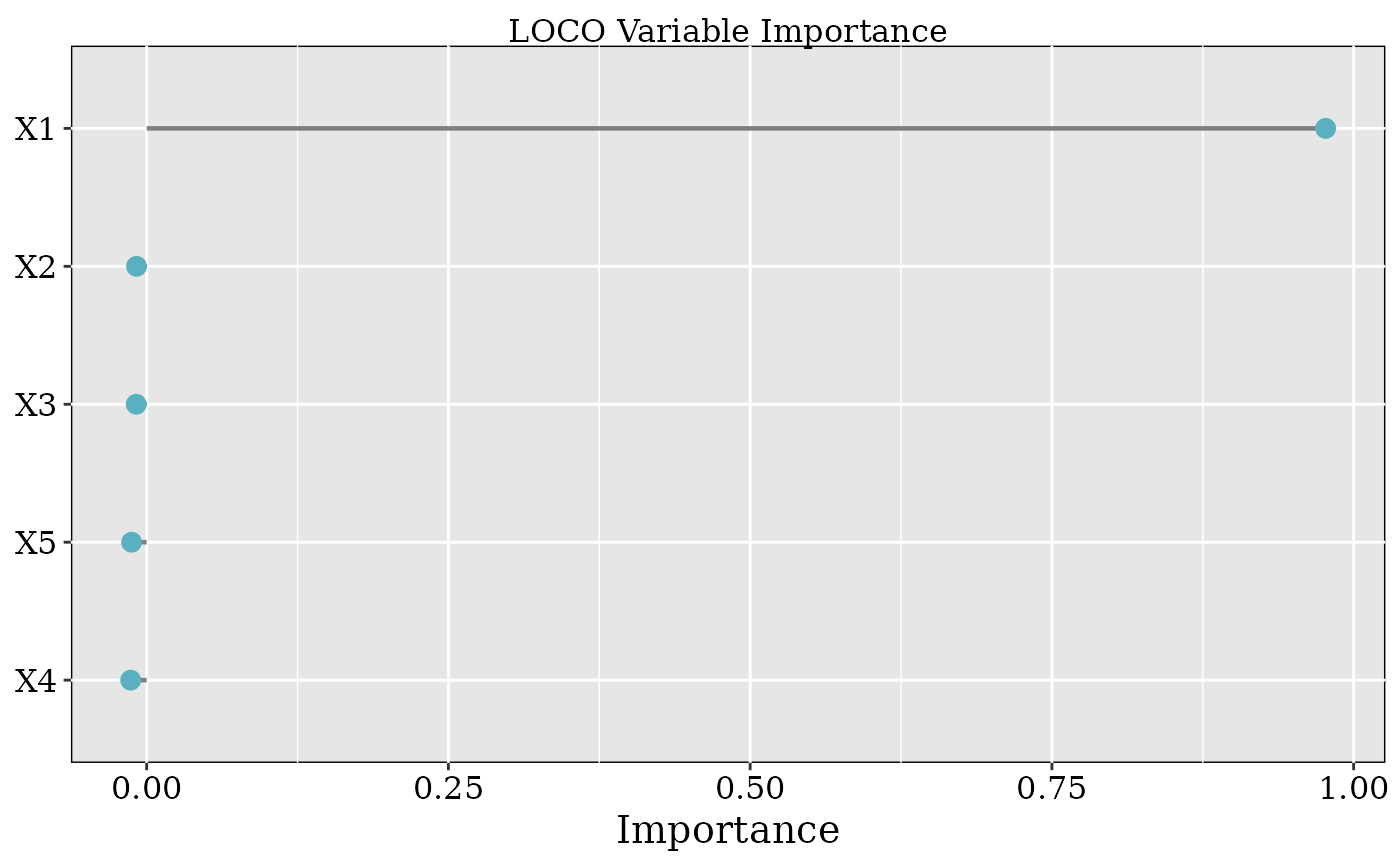
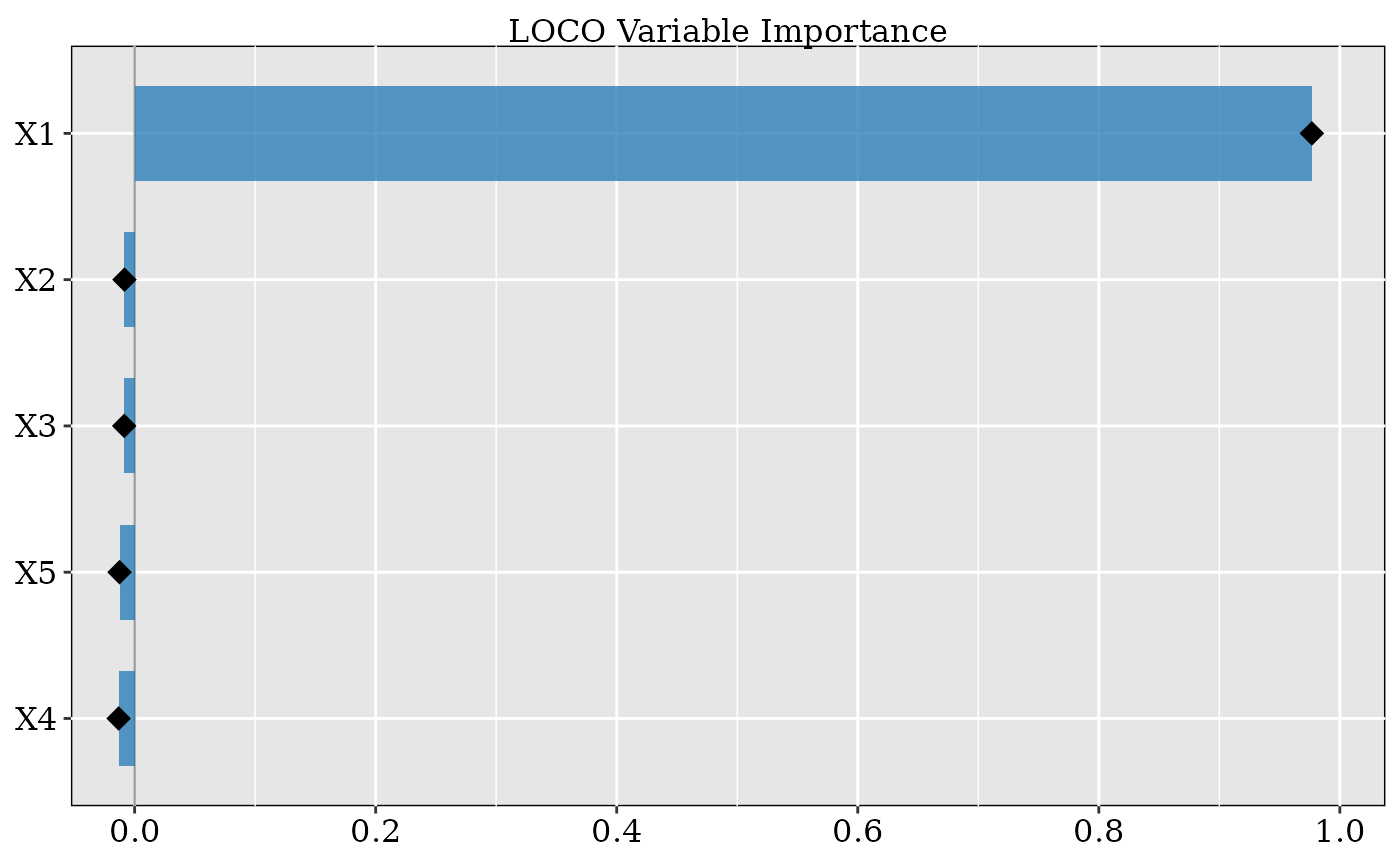
Deploying to gh-pages from @ CetiAlphaFive/UtopiaPlanitia@c2582bc635a76970580e2c9eb4269a3b8015ce54 🚀

diff --git a/reference/plot.cf_perm.html b/reference/plot.cf_perm.html
@@ -1,15 +1,7 @@
 <!DOCTYPE html>
-<!-- Generated by pkgdown: do not edit by hand --><html lang="en"><head><meta http-equiv="Content-Type" content="text/html; charset=UTF-8"><meta charset="utf-8"><meta http-equiv="X-UA-Compatible" content="IE=edge"><meta name="viewport" content="width=device-width, initial-scale=1, shrink-to-fit=no"><title>Plot PermuCATE Variable Importance — plot.cf_perm • UtopiaPlanitia</title><script src="../lightswitch.js"></script><script src="../deps/jquery-3.6.0/jquery-3.6.0.min.js"></script><meta name="viewport" content="width=device-width, initial-scale=1, shrink-to-fit=no"><link href="../deps/bootstrap-5.3.8/bootstrap.min.css" rel="stylesheet"><script src="../deps/bootstrap-5.3.8/bootstrap.bundle.min.js"></script><link href="../deps/font-awesome-6.5.2/css/all.min.css" rel="stylesheet"><link href="../deps/font-awesome-6.5.2/css/v4-shims.min.css" rel="stylesheet"><script src="../deps/headroom-0.11.0/headroom.min.js"></script><script src="../deps/headroom-0.11.0/jQuery.headroom.min.js"></script><script src="../deps/bootstrap-toc-1.0.1/bootstrap-toc.min.js"></script><script src="../deps/clipboard.js-2.0.11/clipboard.min.js"></script><script src="../deps/search-1.0.0/autocomplete.jquery.min.js"></script><script src="../deps/search-1.0.0/fuse.min.js"></script><script src="../deps/search-1.0.0/mark.min.js"></script><!-- pkgdown --><script src="../pkgdown.js"></script><link href="../extra.css" rel="stylesheet"><meta property="og:title" content="Plot PermuCATE Variable Importance — plot.cf_perm"><meta name="description" content="Draws a horizontal lollipop chart of PermuCATE importance scores. When
-confidence bounds are available (not normalized), a one-sided lower
-confidence bound is drawn as a whisker (the upper bound is unbounded by
-construction). Points are colored by significance at the object's
-conf.level (a covariate is significant when its lower confidence bound
-exceeds zero)."><meta property="og:description" content="Draws a horizontal lollipop chart of PermuCATE importance scores. When
-confidence bounds are available (not normalized), a one-sided lower
-confidence bound is drawn as a whisker (the upper bound is unbounded by
-construction). Points are colored by significance at the object's
-conf.level (a covariate is significant when its lower confidence bound
-exceeds zero)."></head><body>
+<!-- Generated by pkgdown: do not edit by hand --><html lang="en"><head><meta http-equiv="Content-Type" content="text/html; charset=UTF-8"><meta charset="utf-8"><meta http-equiv="X-UA-Compatible" content="IE=edge"><meta name="viewport" content="width=device-width, initial-scale=1, shrink-to-fit=no"><title>Plot PermuCATE Variable Importance — plot.cf_perm • UtopiaPlanitia</title><script src="../lightswitch.js"></script><script src="../deps/jquery-3.6.0/jquery-3.6.0.min.js"></script><meta name="viewport" content="width=device-width, initial-scale=1, shrink-to-fit=no"><link href="../deps/bootstrap-5.3.8/bootstrap.min.css" rel="stylesheet"><script src="../deps/bootstrap-5.3.8/bootstrap.bundle.min.js"></script><link href="../deps/font-awesome-6.5.2/css/all.min.css" rel="stylesheet"><link href="../deps/font-awesome-6.5.2/css/v4-shims.min.css" rel="stylesheet"><script src="../deps/headroom-0.11.0/headroom.min.js"></script><script src="../deps/headroom-0.11.0/jQuery.headroom.min.js"></script><script src="../deps/bootstrap-toc-1.0.1/bootstrap-toc.min.js"></script><script src="../deps/clipboard.js-2.0.11/clipboard.min.js"></script><script src="../deps/search-1.0.0/autocomplete.jquery.min.js"></script><script src="../deps/search-1.0.0/fuse.min.js"></script><script src="../deps/search-1.0.0/mark.min.js"></script><!-- pkgdown --><script src="../pkgdown.js"></script><link href="../extra.css" rel="stylesheet"><meta property="og:title" content="Plot PermuCATE Variable Importance — plot.cf_perm"><meta name="description" content="Draws a horizontal variable-importance bar chart of PermuCATE scores,
+sorted from most to least important (largest at the top)."><meta property="og:description" content="Draws a horizontal variable-importance bar chart of PermuCATE scores,
+sorted from most to least important (largest at the top)."></head><body>
     <a href="#main" class="visually-hidden-focusable">Skip to contents</a>
 
 
@@ -50,18 +42,14 @@ exceeds zero)."></head><body>
     </div>
 
     <div class="ref-description section level2">
-    <p>Draws a horizontal lollipop chart of PermuCATE importance scores. When
-confidence bounds are available (not normalized), a one-sided lower
-confidence bound is drawn as a whisker (the upper bound is unbounded by
-construction). Points are colored by significance at the object's
-<code>conf.level</code> (a covariate is significant when its lower confidence bound
-exceeds zero).</p>
+    <p>Draws a horizontal variable-importance bar chart of PermuCATE scores,
+sorted from most to least important (largest at the top).</p>
     </div>
 
     <div class="section level2">
     <h2 id="ref-usage">Usage<a class="anchor" aria-label="anchor" href="#ref-usage"></a></h2>
     <div class="sourceCode"><pre class="sourceCode r"><code><span><span class="co"># S3 method for class 'cf_perm'</span></span>
-<span><span class="fu"><a href="https://rdrr.io/r/graphics/plot.default.html" class="external-link">plot</a></span><span class="op">(</span><span class="va">x</span>, <span class="va">...</span><span class="op">)</span></span></code></pre></div>
+<span><span class="fu"><a href="https://rdrr.io/r/graphics/plot.default.html" class="external-link">plot</a></span><span class="op">(</span><span class="va">x</span>, fill.sig <span class="op">=</span> <span class="st">"darkorange"</span>, <span class="va">...</span><span class="op">)</span></span></code></pre></div>
     </div>
 
     <div class="section level2">
@@ -72,6 +60,11 @@ exceeds zero).</p>
 <dd><p>An object of class <code>"cf_perm"</code> returned by <code><a href="cf_perm.html">cf_perm()</a></code>.</p></dd>
 
 
+<dt id="arg-fill-sig">fill.sig<a class="anchor" aria-label="anchor" href="#arg-fill-sig"></a></dt>
+<dd><p>Bar fill for significant covariates (default
+<code>"darkorange"</code>). Non-significant covariates use <code>"gray70"</code>.</p></dd>
+
+
 <dt id="arg--">...<a class="anchor" aria-label="anchor" href="#arg--"></a></dt>
 <dd><p>Additional arguments (currently unused).</p></dd>
 
@@ -79,6 +72,27 @@ exceeds zero).</p>
     <div class="section level2">
     <h2 id="value">Value<a class="anchor" aria-label="anchor" href="#value"></a></h2>
     <p>A <code>ggplot</code> object.</p>
+    </div>
+    <div class="section level2">
+    <h2 id="details">Details<a class="anchor" aria-label="anchor" href="#details"></a></h2>
+    <p>Shares the package house styling with <code><a href="plot_pdp.html">plot_pdp()</a></code> (serif type, gray panel,
+centered title, legend at the bottom). Colored horizontal bars
+(<code>alpha = 0.75</code>) end in a black tip point over a gray zero reference line,
+with the x-axis hugged to the data. Bars are filled by significance at the
+object's
+<code>conf.level</code> (a covariate is significant when its lower confidence bound
+exceeds zero): significant bars use <code>fill.sig</code>, others <code>"gray70"</code>. When
+confidence bounds are available (not normalized), a one-sided lower
+confidence bound is drawn as a horizontal whisker from <code>CI.lower</code> to the
+importance tip (the upper bound is <code>+Inf</code> by construction, so there is no
+upper whisker). For normalized objects the bounds are <code>NA</code>, so no whisker is
+drawn, all bars take the non-significant fill, and the title gains
+"(normalized)".</p>
+    </div>
+    <div class="section level2">
+    <h2 id="see-also">See also<a class="anchor" aria-label="anchor" href="#see-also"></a></h2>
+    <div class="dont-index"><p><code><a href="cf_perm.html">cf_perm()</a></code> to compute the scores, <code><a href="summary.cf_perm.html">summary.cf_perm()</a></code> for tabular
+output.</p></div>
     </div>
 
   </main><aside class="col-md-3"><nav id="toc" aria-label="Table of contents"><h2>On this page</h2>

diff --git a/reference/plot.cf_loco.html b/reference/plot.cf_loco.html
@@ -1,7 +1,7 @@
 <!DOCTYPE html>
-<!-- Generated by pkgdown: do not edit by hand --><html lang="en"><head><meta http-equiv="Content-Type" content="text/html; charset=UTF-8"><meta charset="utf-8"><meta http-equiv="X-UA-Compatible" content="IE=edge"><meta name="viewport" content="width=device-width, initial-scale=1, shrink-to-fit=no"><title>Plot LOCO Variable Importance — plot.cf_loco • UtopiaPlanitia</title><script src="../lightswitch.js"></script><script src="../deps/jquery-3.6.0/jquery-3.6.0.min.js"></script><meta name="viewport" content="width=device-width, initial-scale=1, shrink-to-fit=no"><link href="../deps/bootstrap-5.3.8/bootstrap.min.css" rel="stylesheet"><script src="../deps/bootstrap-5.3.8/bootstrap.bundle.min.js"></script><link href="../deps/font-awesome-6.5.2/css/all.min.css" rel="stylesheet"><link href="../deps/font-awesome-6.5.2/css/v4-shims.min.css" rel="stylesheet"><script src="../deps/headroom-0.11.0/headroom.min.js"></script><script src="../deps/headroom-0.11.0/jQuery.headroom.min.js"></script><script src="../deps/bootstrap-toc-1.0.1/bootstrap-toc.min.js"></script><script src="../deps/clipboard.js-2.0.11/clipboard.min.js"></script><script src="../deps/search-1.0.0/autocomplete.jquery.min.js"></script><script src="../deps/search-1.0.0/fuse.min.js"></script><script src="../deps/search-1.0.0/mark.min.js"></script><!-- pkgdown --><script src="../pkgdown.js"></script><link href="../extra.css" rel="stylesheet"><meta property="og:title" content="Plot LOCO Variable Importance — plot.cf_loco"><meta name="description" content="Draws a horizontal lollipop chart of LOCO variable importance scores,
-sorted from least to most important (bottom to top)."><meta property="og:description" content="Draws a horizontal lollipop chart of LOCO variable importance scores,
-sorted from least to most important (bottom to top)."></head><body>
+<!-- Generated by pkgdown: do not edit by hand --><html lang="en"><head><meta http-equiv="Content-Type" content="text/html; charset=UTF-8"><meta charset="utf-8"><meta http-equiv="X-UA-Compatible" content="IE=edge"><meta name="viewport" content="width=device-width, initial-scale=1, shrink-to-fit=no"><title>Plot LOCO Variable Importance — plot.cf_loco • UtopiaPlanitia</title><script src="../lightswitch.js"></script><script src="../deps/jquery-3.6.0/jquery-3.6.0.min.js"></script><meta name="viewport" content="width=device-width, initial-scale=1, shrink-to-fit=no"><link href="../deps/bootstrap-5.3.8/bootstrap.min.css" rel="stylesheet"><script src="../deps/bootstrap-5.3.8/bootstrap.bundle.min.js"></script><link href="../deps/font-awesome-6.5.2/css/all.min.css" rel="stylesheet"><link href="../deps/font-awesome-6.5.2/css/v4-shims.min.css" rel="stylesheet"><script src="../deps/headroom-0.11.0/headroom.min.js"></script><script src="../deps/headroom-0.11.0/jQuery.headroom.min.js"></script><script src="../deps/bootstrap-toc-1.0.1/bootstrap-toc.min.js"></script><script src="../deps/clipboard.js-2.0.11/clipboard.min.js"></script><script src="../deps/search-1.0.0/autocomplete.jquery.min.js"></script><script src="../deps/search-1.0.0/fuse.min.js"></script><script src="../deps/search-1.0.0/mark.min.js"></script><!-- pkgdown --><script src="../pkgdown.js"></script><link href="../extra.css" rel="stylesheet"><meta property="og:title" content="Plot LOCO Variable Importance — plot.cf_loco"><meta name="description" content="Draws a horizontal variable-importance bar chart of LOCO scores, sorted
+from most to least important (largest at the top)."><meta property="og:description" content="Draws a horizontal variable-importance bar chart of LOCO scores, sorted
+from most to least important (largest at the top)."></head><body>
     <a href="#main" class="visually-hidden-focusable">Skip to contents</a>
 
 
@@ -42,14 +42,14 @@ sorted from least to most important (bottom to top)."></head><body>
     </div>
 
     <div class="ref-description section level2">
-    <p>Draws a horizontal lollipop chart of LOCO variable importance scores,
-sorted from least to most important (bottom to top).</p>
+    <p>Draws a horizontal variable-importance bar chart of LOCO scores, sorted
+from most to least important (largest at the top).</p>
     </div>
 
     <div class="section level2">
     <h2 id="ref-usage">Usage<a class="anchor" aria-label="anchor" href="#ref-usage"></a></h2>
     <div class="sourceCode"><pre class="sourceCode r"><code><span><span class="co"># S3 method for class 'cf_loco'</span></span>
-<span><span class="fu"><a href="https://rdrr.io/r/graphics/plot.default.html" class="external-link">plot</a></span><span class="op">(</span><span class="va">x</span>, <span class="va">...</span><span class="op">)</span></span></code></pre></div>
+<span><span class="fu"><a href="https://rdrr.io/r/graphics/plot.default.html" class="external-link">plot</a></span><span class="op">(</span><span class="va">x</span>, fill <span class="op">=</span> <span class="st">"#1f78b4"</span>, <span class="va">...</span><span class="op">)</span></span></code></pre></div>
     </div>
 
     <div class="section level2">
@@ -58,6 +58,10 @@ sorted from least to most important (bottom to top).</p>
 
 <dl><dt id="arg-x">x<a class="anchor" aria-label="anchor" href="#arg-x"></a></dt>
 <dd><p>An object of class <code>"cf_loco"</code> returned by <code><a href="cf_loco.html">cf_loco()</a></code>.</p></dd>
+
+
+<dt id="arg-fill">fill<a class="anchor" aria-label="anchor" href="#arg-fill"></a></dt>
+<dd><p>Bar fill color (default <code>"#1f78b4"</code>, the house blue).</p></dd>
 
 
 <dt id="arg--">...<a class="anchor" aria-label="anchor" href="#arg--"></a></dt>
@@ -70,9 +74,13 @@ sorted from least to most important (bottom to top).</p>
     </div>
     <div class="section level2">
     <h2 id="details">Details<a class="anchor" aria-label="anchor" href="#details"></a></h2>
-    <p>Variables are displayed as horizontal segments ending in points, with
-length proportional to importance. When <code>normalize = TRUE</code> was used in
-<code><a href="cf_loco.html">cf_loco()</a></code>, the y-axis label changes to "Importance (normalized)".</p>
+    <p>Shares the package house styling with <code><a href="plot_pdp.html">plot_pdp()</a></code> (serif type, gray panel,
+centered title, legend at the bottom). The mark is a colored horizontal bar
+(<code>alpha = 0.75</code>) ending in a black tip point, over a gray zero reference
+line, with the x-axis hugged to the data. Variables are sorted descending so
+the most important sits at the top. When <code>normalize = TRUE</code> was used in
+<code><a href="cf_loco.html">cf_loco()</a></code>, the title becomes "LOCO Variable Importance (normalized)". The
+bar color is controlled by <code>fill</code>.</p>
     </div>
     <div class="section level2">
     <h2 id="see-also">See also<a class="anchor" aria-label="anchor" href="#see-also"></a></h2>

diff --git a/news/index.html b/news/index.html
@@ -41,6 +41,16 @@
     <div class="section level2">
 <h2 class="pkg-version" data-toc-text="development version" id="utopiaplanitia-development-version">UtopiaPlanitia (development version)<a class="anchor" aria-label="anchor" href="#utopiaplanitia-development-version"></a></h2>
 <div class="section level3">
+<h3 id="plotcf_loco-and-plotcf_perm-restyled-to-the-house-vi-look-development-version">
+<code>plot.cf_loco()</code> and <code>plot.cf_perm()</code> restyled to the house VI look<a class="anchor" aria-label="anchor" href="#plotcf_loco-and-plotcf_perm-restyled-to-the-house-vi-look-development-version"></a></h3>
+<ul><li>
+<strong>Visual change only — not an API change.</strong> Both <code><a href="https://rdrr.io/r/graphics/plot.default.html" class="external-link">plot()</a></code> methods now render in the same house style as <code><a href="../reference/plot_pdp.html">plot_pdp()</a></code> (shared <code>.utopia_pdp_theme()</code>: serif type, gray panel, centered title), with a colored horizontal bar (<code>alpha = 0.75</code>) ending in a black tip point, a gray zero reference line, and the x-axis hugged to the data, instead of the old lollipop. Variables are sorted descending with the most important at the top.</li>
+<li>
+<strong><code>cf_perm</code> keeps its inference</strong>, restyled into the new theme: bars are filled by significance (significant covariates in <code>darkorange</code>, others gray), the one-sided lower confidence bound is drawn as a horizontal whisker, and normalized objects (no confidence bounds) drop the whisker and take the non-significant fill.</li>
+<li>
+<strong>New appended arguments</strong> <code>plot.cf_loco(x, fill = "#1f78b4", ...)</code> and <code>plot.cf_perm(x, fill.sig = "#1f78b4", ...)</code> let callers recolor; defaults reproduce the new house look. Both methods still return a <code>ggplot</code> object, so signatures and return types remain backwards compatible. <code><a href="https://rdrr.io/r/base/summary.html" class="external-link">summary()</a></code> / <code><a href="https://rdrr.io/r/base/print.html" class="external-link">print()</a></code> output for both classes is unchanged.</li>
+</ul></div>
+<div class="section level3">
 <h3 id="cf_perm-gains-opt-in-missing-covariate-handling-development-version">
 <code>cf_perm()</code> gains opt-in missing-covariate handling<a class="anchor" aria-label="anchor" href="#cf_perm-gains-opt-in-missing-covariate-handling-development-version"></a></h3>
 <ul><li>

diff --git a/reference/glmcf.html b/reference/glmcf.html
@@ -52,7 +52,7 @@ the Robinson-residualisation nuisances are swapped."></head><body>
     <div class="ref-description section level2">
     <p>Refits a <code><a href="https://rdrr.io/pkg/grf/man/causal_forest.html" class="external-link">grf::causal_forest()</a></code> after replacing the conditional outcome
 <code>m(x) = E[Y | X = x]</code> and propensity <code>e(x) = E[W | X = x]</code> with
-cross-fitted predictions from <code><a href="https://glmnet.stanford.edu/reference/cv.glmnet.html" class="external-link">glmnet::cv.glmnet()</a></code> (penalized
+cross-fitted predictions from <code><a href="https://rdrr.io/pkg/glmnet/man/cv.glmnet.html" class="external-link">glmnet::cv.glmnet()</a></code> (penalized
 elastic-net regression / classification, optionally relaxed). The CATE
 estimator and identification assumptions of <code>grf</code> are unchanged — only
 the Robinson-residualisation nuisances are swapped.</p>
@@ -146,7 +146,7 @@ coefficients are biased by the lasso shrinkage.</p></dd>
 
 <dt id="arg-glmnet-args">glmnet_args<a class="anchor" aria-label="anchor" href="#arg-glmnet-args"></a></dt>
 <dd><p>Named list of additional arguments forwarded to
-<code><a href="https://glmnet.stanford.edu/reference/cv.glmnet.html" class="external-link">glmnet::cv.glmnet()</a></code> (e.g. <code>list(nfolds = 5L, nlambda = 50L)</code>).
+<code><a href="https://rdrr.io/pkg/glmnet/man/cv.glmnet.html" class="external-link">glmnet::cv.glmnet()</a></code> (e.g. <code>list(nfolds = 5L, nlambda = 50L)</code>).
 Note: <code>nfolds</code>/<code>foldid</code> supplied here are overridden by the
 internal shared <code>foldid</code> used for alpha tuning.</p></dd>
 

diff --git a/reference/autocf.html b/reference/autocf.html
@@ -164,7 +164,7 @@ uses mlr3's default xgboost hyperparameters. Default <code>10L</code>.</p></dd>
 <dt id="arg-tabpfn-args-glmnet-args-xgboost-args-bart-args">tabpfn_args, glmnet_args, xgboost_args, bart_args<a class="anchor" aria-label="anchor" href="#arg-tabpfn-args-glmnet-args-xgboost-args-bart-args"></a></dt>
 <dd><p>Optional named
 lists of per-candidate extra arguments. <code>tabpfn_args</code> is forwarded
-to <code><a href="https://tabpfn.tidymodels.org/reference/tab_pfn.html" class="external-link">tabpfn::tab_pfn()</a></code>; <code>glmnet_args</code> to <code><a href="https://glmnet.stanford.edu/reference/cv.glmnet.html" class="external-link">glmnet::cv.glmnet()</a></code>;
+to <code><a href="https://tabpfn.tidymodels.org/reference/tab_pfn.html" class="external-link">tabpfn::tab_pfn()</a></code>; <code>glmnet_args</code> to <code><a href="https://rdrr.io/pkg/glmnet/man/cv.glmnet.html" class="external-link">glmnet::cv.glmnet()</a></code>;
 <code>xgboost_args</code> is forwarded to the mlr3 <code>xgboost</code> learner's
 <code>param_set$values</code> (use to set, e.g., <code>nthread = 4</code> for multi-core
 CPU or <code>device = "cuda"</code> to enable GPU on systems with a CUDA

diff --git a/reference/plot.cf_perm.md b/reference/plot.cf_perm.md
@@ -1,17 +1,13 @@
 # Plot PermuCATE Variable Importance
 
-Draws a horizontal lollipop chart of PermuCATE importance scores. When
-confidence bounds are available (not normalized), a one-sided lower
-confidence bound is drawn as a whisker (the upper bound is unbounded by
-construction). Points are colored by significance at the object's
-`conf.level` (a covariate is significant when its lower confidence bound
-exceeds zero).
+Draws a horizontal variable-importance bar chart of PermuCATE scores,
+sorted from most to least important (largest at the top).
 
 ## Usage
 
 ``` r
 # S3 method for class 'cf_perm'
-plot(x, ...)
+plot(x, fill.sig = "darkorange", ...)
 ```
 
 ## Arguments
@@ -21,6 +17,11 @@ plot(x, ...)
   An object of class `"cf_perm"` returned by
   [`cf_perm()`](https://cetialphafive.github.io/UtopiaPlanitia/reference/cf_perm.md).
 
+- fill.sig:
+
+  Bar fill for significant covariates (default `"darkorange"`).
+  Non-significant covariates use `"gray70"`.
+
 - ...:
 
   Additional arguments (currently unused).
@@ -28,3 +29,26 @@ plot(x, ...)
 ## Value
 
 A `ggplot` object.
+
+## Details
+
+Shares the package house styling with
+[`plot_pdp()`](https://cetialphafive.github.io/UtopiaPlanitia/reference/plot_pdp.md)
+(serif type, gray panel, centered title, legend at the bottom). Colored
+horizontal bars (`alpha = 0.75`) end in a black tip point over a gray
+zero reference line, with the x-axis hugged to the data. Bars are filled
+by significance at the object's `conf.level` (a covariate is significant
+when its lower confidence bound exceeds zero): significant bars use
+`fill.sig`, others `"gray70"`. When confidence bounds are available (not
+normalized), a one-sided lower confidence bound is drawn as a horizontal
+whisker from `CI.lower` to the importance tip (the upper bound is `+Inf`
+by construction, so there is no upper whisker). For normalized objects
+the bounds are `NA`, so no whisker is drawn, all bars take the
+non-significant fill, and the title gains "(normalized)".
+
+## See also
+
+[`cf_perm()`](https://cetialphafive.github.io/UtopiaPlanitia/reference/cf_perm.md)
+to compute the scores,
+[`summary.cf_perm()`](https://cetialphafive.github.io/UtopiaPlanitia/reference/summary.cf_perm.md)
+for tabular output.

diff --git a/news/index.md b/news/index.md
@@ -2,6 +2,30 @@
 
 ## UtopiaPlanitia (development version)
 
+### `plot.cf_loco()` and `plot.cf_perm()` restyled to the house VI look
+
+- **Visual change only — not an API change.** Both
+  [`plot()`](https://rdrr.io/r/graphics/plot.default.html) methods now
+  render in the same house style as
+  [`plot_pdp()`](https://cetialphafive.github.io/UtopiaPlanitia/reference/plot_pdp.md)
+  (shared `.utopia_pdp_theme()`: serif type, gray panel, centered
+  title), with a colored horizontal bar (`alpha = 0.75`) ending in a
+  black tip point, a gray zero reference line, and the x-axis hugged to
+  the data, instead of the old lollipop. Variables are sorted descending
+  with the most important at the top.
+- **`cf_perm` keeps its inference**, restyled into the new theme: bars
+  are filled by significance (significant covariates in `darkorange`,
+  others gray), the one-sided lower confidence bound is drawn as a
+  horizontal whisker, and normalized objects (no confidence bounds) drop
+  the whisker and take the non-significant fill.
+- **New appended arguments** `plot.cf_loco(x, fill = "#1f78b4", ...)`
+  and `plot.cf_perm(x, fill.sig = "#1f78b4", ...)` let callers recolor;
+  defaults reproduce the new house look. Both methods still return a
+  `ggplot` object, so signatures and return types remain backwards
+  compatible. [`summary()`](https://rdrr.io/r/base/summary.html) /
+  [`print()`](https://rdrr.io/r/base/print.html) output for both classes
+  is unchanged.
+
 ### `cf_perm()` gains opt-in missing-covariate handling
 
 - **New `allow.missing` argument (default `FALSE`, appended last).**

diff --git a/reference/plot.cf_loco.md b/reference/plot.cf_loco.md
@@ -1,13 +1,13 @@
 # Plot LOCO Variable Importance
 
-Draws a horizontal lollipop chart of LOCO variable importance scores,
-sorted from least to most important (bottom to top).
+Draws a horizontal variable-importance bar chart of LOCO scores, sorted
+from most to least important (largest at the top).
 
 ## Usage
 
 ``` r
 # S3 method for class 'cf_loco'
-plot(x, ...)
+plot(x, fill = "#1f78b4", ...)
 ```
 
 ## Arguments
@@ -16,6 +16,10 @@ plot(x, ...)
 
   An object of class `"cf_loco"` returned by
   [`cf_loco()`](https://cetialphafive.github.io/UtopiaPlanitia/reference/cf_loco.md).
+
+- fill:
+
+  Bar fill color (default `"#1f78b4"`, the house blue).
 
 - ...:
 
@@ -27,10 +31,16 @@ A `ggplot` object.
 
 ## Details
 
-Variables are displayed as horizontal segments ending in points, with
-length proportional to importance. When `normalize = TRUE` was used in
+Shares the package house styling with
+[`plot_pdp()`](https://cetialphafive.github.io/UtopiaPlanitia/reference/plot_pdp.md)
+(serif type, gray panel, centered title, legend at the bottom). The mark
+is a colored horizontal bar (`alpha = 0.75`) ending in a black tip
+point, over a gray zero reference line, with the x-axis hugged to the
+data. Variables are sorted descending so the most important sits at the
+top. When `normalize = TRUE` was used in
 [`cf_loco()`](https://cetialphafive.github.io/UtopiaPlanitia/reference/cf_loco.md),
-the y-axis label changes to "Importance (normalized)".
+the title becomes "LOCO Variable Importance (normalized)". The bar color
+is controlled by `fill`.
 
 ## See also
 

diff --git a/reference/glmcf.md b/reference/glmcf.md
@@ -4,7 +4,7 @@ Refits a
 [`grf::causal_forest()`](https://rdrr.io/pkg/grf/man/causal_forest.html)
 after replacing the conditional outcome `m(x) = E[Y | X = x]` and
 propensity `e(x) = E[W | X = x]` with cross-fitted predictions from
-[`glmnet::cv.glmnet()`](https://glmnet.stanford.edu/reference/cv.glmnet.html)
+[`glmnet::cv.glmnet()`](https://rdrr.io/pkg/glmnet/man/cv.glmnet.html)
 (penalized elastic-net regression / classification, optionally relaxed).
 The CATE estimator and identification assumptions of `grf` are unchanged
 — only the Robinson-residualisation nuisances are swapped.
@@ -97,7 +97,7 @@ glmcf(
 - glmnet_args:
 
   Named list of additional arguments forwarded to
-  [`glmnet::cv.glmnet()`](https://glmnet.stanford.edu/reference/cv.glmnet.html)
+  [`glmnet::cv.glmnet()`](https://rdrr.io/pkg/glmnet/man/cv.glmnet.html)
   (e.g. `list(nfolds = 5L, nlambda = 50L)`). Note: `nfolds`/`foldid`
   supplied here are overridden by the internal shared `foldid` used for
   alpha tuning.

diff --git a/reference/autocf.md b/reference/autocf.md
@@ -123,7 +123,7 @@ autocf(
   is forwarded to
   [`tabpfn::tab_pfn()`](https://tabpfn.tidymodels.org/reference/tab_pfn.html);
   `glmnet_args` to
-  [`glmnet::cv.glmnet()`](https://glmnet.stanford.edu/reference/cv.glmnet.html);
+  [`glmnet::cv.glmnet()`](https://rdrr.io/pkg/glmnet/man/cv.glmnet.html);
   `xgboost_args` is forwarded to the mlr3 `xgboost` learner's
   `param_set$values` (use to set, e.g., `nthread = 4` for multi-core CPU
   or `device = "cuda"` to enable GPU on systems with a CUDA xgboost